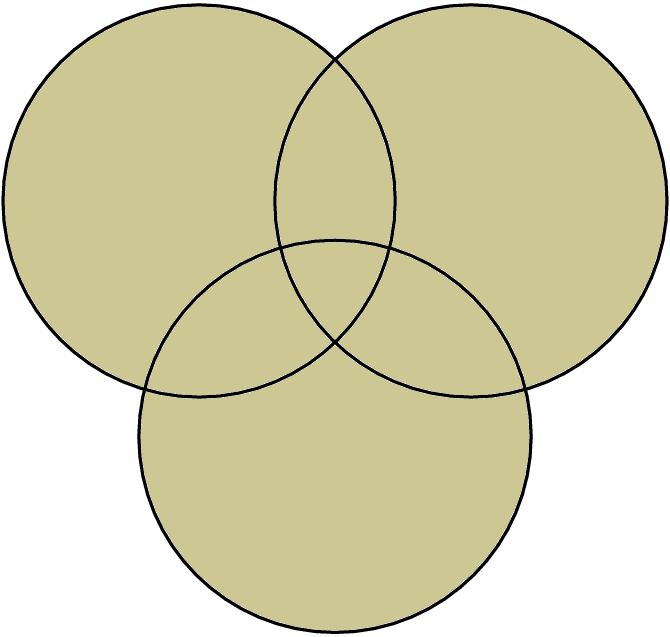
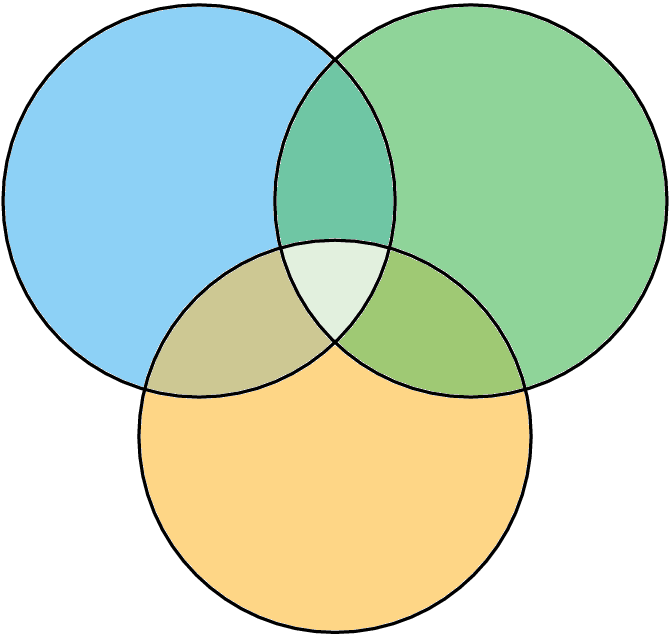
Rename default venn diagrams to unioned diagrams

diff --git a/src/main/resources/static/javascript/store.controller.group-configuration.js b/src/main/resources/static/javascript/store.controller.group-configuration.js
@@ -35,7 +35,7 @@
         {
           name: 'default',
           description: '',
-          image: 'two-default.png'
+          image: 'a-union-b.png'
         }
       ],
       3: [
@@ -56,7 +56,7 @@
         {
           name: 'default',
           description: '',
-          image: 'three-default.png'
+          image: 'a-union-b-union-c.png'
         }
       ]
     };
